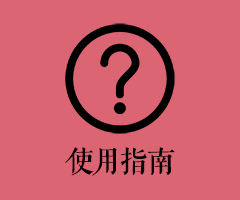
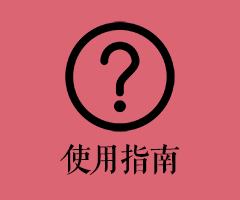
修改按钮图片

diff --git a/test_zzx.py b/test_zzx.py
@@ -180,6 +180,7 @@ imagelist = []
 small_imagelist = []
 resultlist = []
 
+
 business_list = []
 card_list = []
 license_list = []
@@ -839,7 +840,7 @@ def confirm_single(name, parent, ocr_type: OCR, flag: str = ""):
             v_bank_card_type.set(ocr_final_result[item]['bank_card_type'])
             v_valid_date.set(ocr_final_result[item]['valid_date'])
 
-        text_bank_card_number = Label(cf_wd, text="银行卡号:", width=10, font=myfont, bg="#d5edea")
+        text_bank_card_number = Label(cf_wd, text="银行卡号:", width=10, font=myfont,bg="#d5edea")
         text_bank_card_number.place(x=0 + x_offset, y=0 + y_offset)
         text_bank_name = Label(cf_wd, text="银行名称:", width=10, font=myfont, bg="#ddefec")
         text_bank_name.place(x=0 + x_offset, y=40 + y_offset)
@@ -869,8 +870,7 @@ def confirm_single(name, parent, ocr_type: OCR, flag: str = ""):
 
             cf_wd.destroy()
 
-        btn_confirm = Button(cf_wd, image=confirm_btn_photo, bg="#9fc2e2", command=lambda: confirm_bankcard(),
-                             relief=FLAT, font=myfont)
+        btn_confirm = Button(cf_wd, image=confirm_btn_photo, bg="#9fc2e2", command=lambda: confirm_bankcard(), relief=FLAT, font=myfont)
         btn_confirm.place(x=850, y=580)
 
     elif ocr_type == OCR.BUSINESS_LICENSE:
@@ -912,21 +912,21 @@ def confirm_single(name, parent, ocr_type: OCR, flag: str = ""):
 
         text_company_name = Label(cf_wd, text="公司名称:", width=10, font=myfont, bg="#e4f2ee")
         text_company_name.place(x=0 + x_offset, y=0 + y_offset)
-        text_legal_person = Label(cf_wd, text="法人:", width=10, font=myfont, bg="#ddefec")
+        text_legal_person = Label(cf_wd, text="法人:", width=10, font=myfont,bg="#ddefec")
         text_legal_person.place(x=0 + x_offset, y=40 + y_offset)
-        text_license_id = Label(cf_wd, text="证书号:", width=10, font=myfont, bg="#ddefec")
+        text_license_id = Label(cf_wd, text="证书号:", width=10, font=myfont,bg="#ddefec")
         text_license_id.place(x=250 + x_offset, y=40 + y_offset)
-        text_social_credit_number = Label(cf_wd, text="信用代码:", width=10, font=myfont, bg="#d5edea")
+        text_social_credit_number = Label(cf_wd, text="信用代码:", width=10, font=myfont,bg="#d5edea")
         text_social_credit_number.place(x=0 + x_offset, y=80 + y_offset)
-        text_establishment_date = Label(cf_wd, text="成立日期:", width=10, font=myfont, bg="#d1ebea")
+        text_establishment_date = Label(cf_wd, text="成立日期:", width=10, font=myfont,bg="#d1ebea")
         text_establishment_date.place(x=0 + x_offset, y=120 + y_offset)
-        text_expiration_date = Label(cf_wd, text="有效期:", width=10, font=myfont, bg="#d1ebea")
+        text_expiration_date = Label(cf_wd, text="有效期:", width=10, font=myfont,bg="#d1ebea")
         text_expiration_date.place(x=250 + x_offset, y=120 + y_offset)
-        text_registered_capital = Label(cf_wd, text="注册资本:", width=10, font=myfont, bg="#cde9e9")
+        text_registered_capital = Label(cf_wd, text="注册资本:", width=10, font=myfont,bg="#cde9e9")
         text_registered_capital.place(x=0 + x_offset, y=160 + y_offset)
-        text_addr = Label(cf_wd, text="地址:", width=10, font=myfont, bg="#cae8e8")
+        text_addr = Label(cf_wd, text="地址:", width=10, font=myfont,bg="#cae8e8")
         text_addr.place(x=0 + x_offset, y=200 + y_offset)
-        text_business_scope = Label(cf_wd, text="经营范围:", width=10, font=myfont, bg="#c6e6e7")
+        text_business_scope = Label(cf_wd, text="经营范围:", width=10, font=myfont,bg="#c6e6e7")
         text_business_scope.place(x=0 + x_offset, y=240 + y_offset)
 
         entry_company_name = Entry(cf_wd, textvariable=v_company_name, width=51, font=myfont)
@@ -965,8 +965,7 @@ def confirm_single(name, parent, ocr_type: OCR, flag: str = ""):
 
             cf_wd.destroy()
 
-        btn_confirm = Button(cf_wd, image=confirm_btn_photo, bg="#9fc2e2", command=lambda: confirm_business_license(),
-                             relief=FLAT, font=myfont)
+        btn_confirm = Button(cf_wd, image=confirm_btn_photo, bg="#9fc2e2", command=lambda: confirm_business_license(), relief=FLAT, font=myfont)
         btn_confirm.place(x=850, y=580)
 
     elif ocr_type == OCR.INVOICE:
@@ -985,31 +984,31 @@ def confirm_single(name, parent, ocr_type: OCR, flag: str = ""):
         v_seller_bank = StringVar()  # 销售方开户行及账号
         v_amount_in_figures = StringVar()  # 价格合计
 
-        text_invoice_type = Label(cf_wd, text="发票种类:", font=myfont, bg="#e4f2ee")
+        text_invoice_type = Label(cf_wd, text="发票种类:", font=myfont,bg="#e4f2ee")
         text_invoice_type.place(x=0 + x_offset, y=0 + y_offset)
-        text_invoice_code = Label(cf_wd, text="发票代码:", font=myfont, bg="#e4f2ee")
+        text_invoice_code = Label(cf_wd, text="发票代码:", font=myfont,bg="#e4f2ee")
         text_invoice_code.place(x=250 + x_offset, y=0 + y_offset)
-        text_invoice_num = Label(cf_wd, text="发票号码:", font=myfont, bg="#e0f0ed")
+        text_invoice_num = Label(cf_wd, text="发票号码:", font=myfont,bg="#e0f0ed")
         text_invoice_num.place(x=0 + x_offset, y=40 + y_offset)
-        text_invoice_date = Label(cf_wd, text="开票日期:", font=myfont, bg="#e0f0ed")
+        text_invoice_date = Label(cf_wd, text="开票日期:", font=myfont,bg="#e0f0ed")
         text_invoice_date.place(x=250 + x_offset, y=40 + y_offset)
-        text_purchaser = Label(cf_wd, text="购买方信息:", font=myfont, bg="#deefec")
+        text_purchaser = Label(cf_wd, text="购买方信息:", font=myfont,bg="#deefec")
         text_purchaser.place(x=0 + x_offset, y=80 + y_offset)
-        text_purchaser_name = Label(cf_wd, text="名称:", font=myfont, bg="#ddf0ed")
+        text_purchaser_name = Label(cf_wd, text="名称:", font=myfont,bg="#ddf0ed")
         text_purchaser_name.place(x=0 + x_offset, y=120 + y_offset)
-        text_purchaser_register_num = Label(cf_wd, text="纳税人\n识别号:", font=myfont, bg="#ddf0ed")
+        text_purchaser_register_num = Label(cf_wd, text="纳税人\n识别号:", font=myfont,bg="#ddf0ed")
         text_purchaser_register_num.place(x=250 + x_offset, y=120 + y_offset)
-        text_seller = Label(cf_wd, text="销售方信息:", font=myfont, bg="#d7edeb")
+        text_seller = Label(cf_wd, text="销售方信息:", font=myfont,bg="#d7edeb")
         text_seller.place(x=0 + x_offset, y=160 + y_offset)
-        text_seller_name = Label(cf_wd, text="名称:", width=10, font=myfont, bg="#d1eaea")
+        text_seller_name = Label(cf_wd, text="名称:", width=10, font=myfont,bg="#d1eaea")
         text_seller_name.place(x=0 + x_offset, y=200 + y_offset)
-        text_seller_register_num = Label(cf_wd, text="纳税人\n识别号:", width=10, font=myfont, bg="#d1eaea")
+        text_seller_register_num = Label(cf_wd, text="纳税人\n识别号:", width=10, font=myfont,bg="#d1eaea")
         text_seller_register_num.place(x=250 + x_offset, y=200 + y_offset)
-        text_seller_addr = Label(cf_wd, text="地址:", width=10, font=myfont, bg="#cdeae8")
+        text_seller_addr = Label(cf_wd, text="地址:", width=10, font=myfont,bg="#cdeae8")
         text_seller_addr.place(x=0 + x_offset, y=240 + y_offset)
-        text_seller_bank = Label(cf_wd, text="银行:", width=10, font=myfont, bg="#cdeae8")
+        text_seller_bank = Label(cf_wd, text="银行:", width=10, font=myfont,bg="#cdeae8")
         text_seller_bank.place(x=250 + x_offset, y=240 + y_offset)
-        text_amount_in_figures = Label(cf_wd, text="价格合计(元):", font=myfont, bg="#a6d7e1")
+        text_amount_in_figures = Label(cf_wd, text="价格合计(元):", font=myfont,bg="#a6d7e1")
         text_amount_in_figures.place(x=0 + x_offset, y=420 + y_offset)
 
         entry_invoice_type = Entry(cf_wd, textvariable=v_invoice_type, font=myfont)
@@ -1145,8 +1144,7 @@ def confirm_single(name, parent, ocr_type: OCR, flag: str = ""):
 
             cf_wd.destroy()
 
-        btn_confirm = Button(cf_wd, image=confirm_btn_photo, bg="#9fc2e2", command=lambda: confirm_invoice(),
-                             relief=FLAT, font=myfont)
+        btn_confirm = Button(cf_wd, image=confirm_btn_photo, bg="#9fc2e2", command=lambda: confirm_invoice(), relief=FLAT, font=myfont)
         btn_confirm.place(x=840, y=560)
 
     elif ocr_type == OCR.GENERAL_BASIC:
@@ -1176,15 +1174,15 @@ def confirm_single(name, parent, ocr_type: OCR, flag: str = ""):
             v_date.set(ocr_final_result[item]['date'])
             v_others = ocr_final_result[item]['others']
 
-        text_name = Label(cf_wd, text="姓名:", width=10, font=myfont, bg="#e6f2ee")
+        text_name = Label(cf_wd, text="姓名:", width=10, font=myfont,bg="#e6f2ee")
         text_name.place(x=0 + x_offset, y=0 + y_offset)
-        text_phone = Label(cf_wd, text="电话:", width=10, font=myfont, bg="#e2f1ed")
+        text_phone = Label(cf_wd, text="电话:", width=10, font=myfont,bg="#e2f1ed")
         text_phone.place(x=0 + x_offset, y=40 + y_offset)
-        text_id_num = Label(cf_wd, text="身份证:", width=10, font=myfont, bg="#ddf0ec")
+        text_id_num = Label(cf_wd, text="身份证:", width=10, font=myfont,bg="#ddf0ec")
         text_id_num.place(x=0 + x_offset, y=80 + y_offset)
-        text_date = Label(cf_wd, text="日期:", width=10, font=myfont, bg="#dbeeec")
+        text_date = Label(cf_wd, text="日期:", width=10, font=myfont,bg="#dbeeec")
         text_date.place(x=0 + x_offset, y=120 + y_offset)
-        text_others = Label(cf_wd, text="其他信息:", width=10, font=myfont, bg="#d5ecea")
+        text_others = Label(cf_wd, text="其他信息:", width=10, font=myfont,bg="#d5ecea")
         text_others.place(x=0 + x_offset, y=160 + y_offset)
 
         entry_name = Entry(cf_wd, textvariable=v_name, width=51, font=myfont)
@@ -1212,8 +1210,7 @@ def confirm_single(name, parent, ocr_type: OCR, flag: str = ""):
 
             cf_wd.destroy()
 
-        btn_confirm = Button(cf_wd, image=confirm_btn_photo, bg="#9fc2e2", command=lambda: confirm_general_basic(),
-                             relief=FLAT, font=myfont)
+        btn_confirm = Button(cf_wd,  image=confirm_btn_photo, bg="#9fc2e2",command=lambda: confirm_general_basic(), relief=FLAT, font=myfont)
         btn_confirm.place(x=840, y=575)
 
     # TODO: 此函数下方的所有内容均已删除
@@ -1705,7 +1702,6 @@ def delButton(tree):
     x = tree.get_children()
     for item in x:
         tree.delete(item)
-    tree.heading('0', text='')
     tree.heading('1', text='')
     tree.heading('2', text='')
     tree.heading('3', text='')
@@ -1955,7 +1951,6 @@ def manage():
 
     manage_wd.mainloop()
 
-
 # TODO: ----------------------------------修改与删除↑
 '''
 def upload(photo_area, pathname, num_photo, comb_value):
@@ -2112,8 +2107,6 @@ def confirm_window(num_photo, namelist, parent):
 '''
 
 single_final_result = []
-
-
 def confirm_single_in_upload_single(num_photo: IntVar, pathname: StringVar, parent, ocr_type: OCR):
     curr = IntVar()
 
@@ -2385,6 +2378,7 @@ def confirm_single_in_upload_single(num_photo: IntVar, pathname: StringVar, pare
                                            single_final_result[ptr]['commodity']['tax_rate'],
                                            single_final_result[ptr]['commodity']['tax']))
 
+
             tree.place(x=0 + x_offset, y=280 + y_offset)
 
             entry_amount_in_figures = Entry(cf_wd, textvariable=v_amount_in_figures, font=myfont)
@@ -2503,17 +2497,12 @@ def confirm_single_in_upload_single(num_photo: IntVar, pathname: StringVar, pare
             single_final_result[-1]['commodity']['tax_rate'] = []
             single_final_result[-1]['commodity']['tax'] = []
             for i in range(len(single_final_result[-1]['commodity_name'])):
-                single_final_result[-1]['commodity']['name'].append(
-                    single_final_result[-1]['commodity_name'][i]['word'])
-                single_final_result[-1]['commodity']['type'].append(
-                    single_final_result[-1]['commodity_type'][i]['word'])
+                single_final_result[-1]['commodity']['name'].append(single_final_result[-1]['commodity_name'][i]['word'])
+                single_final_result[-1]['commodity']['type'].append(single_final_result[-1]['commodity_type'][i]['word'])
                 single_final_result[-1]['commodity']['num'].append(single_final_result[-1]['commodity_num'][i]['word'])
-                single_final_result[-1]['commodity']['price'].append(
-                    single_final_result[-1]['commodity_price'][i]['word'])
-                single_final_result[-1]['commodity']['amount'].append(
-                    single_final_result[-1]['commodity_amount'][i]['word'])
-                single_final_result[-1]['commodity']['tax_rate'].append(
-                    single_final_result[-1]['commodity_tax_rate'][i]['word'])
+                single_final_result[-1]['commodity']['price'].append(single_final_result[-1]['commodity_price'][i]['word'])
+                single_final_result[-1]['commodity']['amount'].append(single_final_result[-1]['commodity_amount'][i]['word'])
+                single_final_result[-1]['commodity']['tax_rate'].append(single_final_result[-1]['commodity_tax_rate'][i]['word'])
                 single_final_result[-1]['commodity']['tax'].append(single_final_result[-1]['commodity_tax'][i]['word'])
         elif ocr_type == OCR.GENERAL_BASIC:
             result = handwriting_match(ocr_general_basic(name)['content'].split(' '))
@@ -2569,10 +2558,10 @@ def confirm_single_in_upload_single(num_photo: IntVar, pathname: StringVar, pare
     update_info()
 
     last_btn = Button(cf_wd, text="上一张", width=11, command=last_photo, relief=FLAT, bg="#9fc2e2")
-    last_btn.place(x=650 + 20, y=580)
+    last_btn.place(x=650+20, y=580)
 
     next_btn = Button(cf_wd, text="下一张", width=11, command=next_photo, relief=FLAT, bg="#9fc2e2")
-    next_btn.place(x=800 + 20, y=580)
+    next_btn.place(x=800+20, y=580)
 
     def confirm_all():
         for item, name in zip(single_final_result, namelist):
@@ -2597,7 +2586,7 @@ def confirm_single_in_upload_single(num_photo: IntVar, pathname: StringVar, pare
 
     confirm_btn = Button(cf_wd, text="确认信息", command=confirm_all, relief=FLAT,
                          image=confirm_btn_photo, bg="#9fc2e2")
-    confirm_btn.place(x=950 + 20, y=580)
+    confirm_btn.place(x=950+20, y=580)
 
 
 def upload_single():
@@ -2628,7 +2617,7 @@ def upload_single():
     photo_area.place(relx=0.25, rely=0.35)
     # photo_area.config(width=300, height=200)
     # photo_area.configure(scrollregion=photo_area.bbox('all'))
-    scrollbar.place(relx=0.752, rely=0.354, height=300)
+    scrollbar.place(relx=0.752, rely=0.354,height=300)
     photo_area.configure(yscrollcommand=scrollbar.set)
 
     path_entry = Entry(single_wd, textvariable=pathname, width=40, bg='#e0f1ed', font="宋体 12", relief=FLAT)
@@ -2644,8 +2633,7 @@ def upload_single():
     #                     command=lambda: upload(photo_area, pathname, num_photo, comb_value),
     #                     relief=FLAT, bg='#f8ffff')
     upload_btn = Button(single_wd, image=icon_list[1],
-                        command=lambda: confirm_single_in_upload_single(num_photo, pathname, single_wd,
-                                                                        comb_value_map[comb_value.get()]),
+                        command=lambda: confirm_single_in_upload_single(num_photo, pathname, single_wd, comb_value_map[comb_value.get()]),
                         relief=FLAT, bg='#f8ffff')
     upload_btn.place(relx=0.44, rely=0.85)
     ''''''
